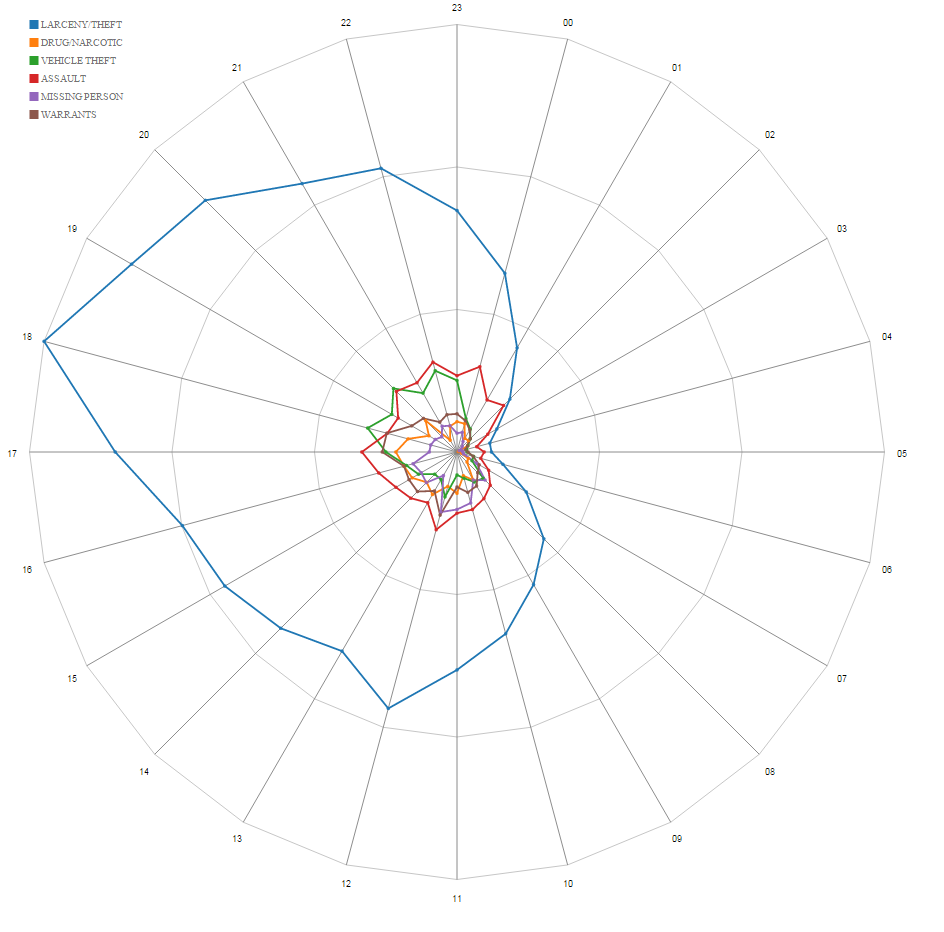
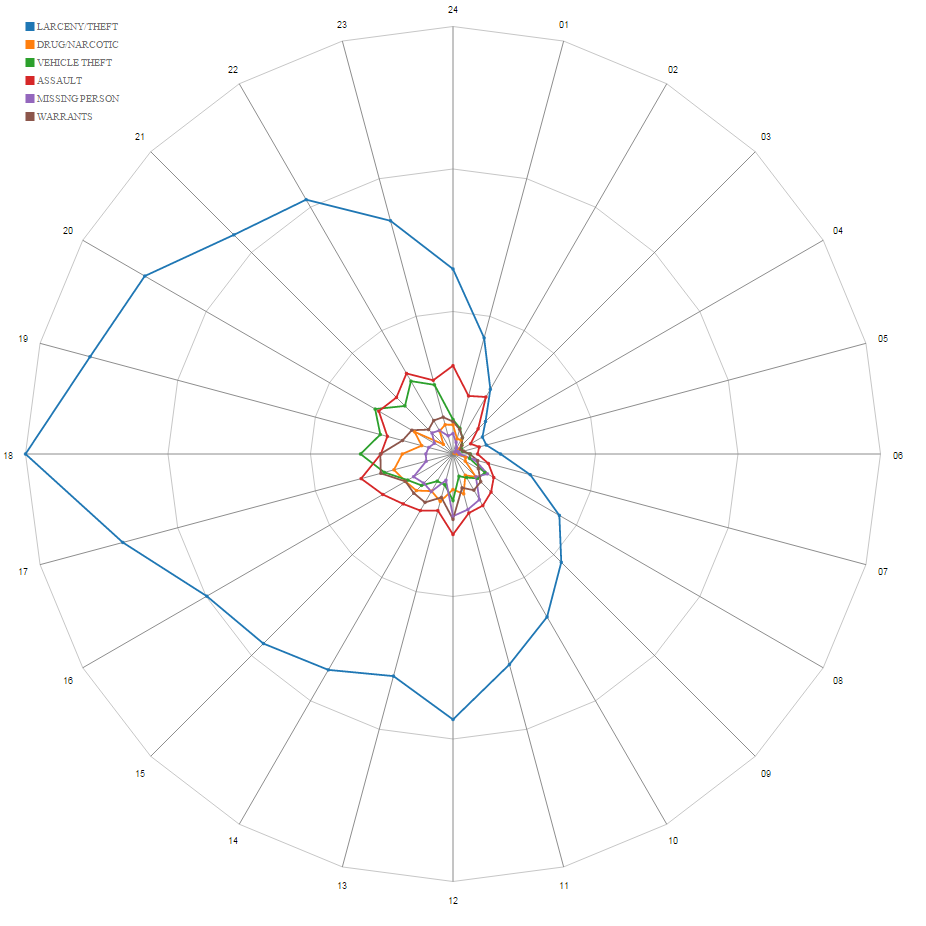
errors are fixed

diff --git a/ch4.html b/ch4.html
@@ -67,9 +67,9 @@
             hIdx = radarData.length;
             var axes = [];
             [
-              '00', '01', '02', '03', '04', '05', '06', '07', '08',
+              '01', '02', '03', '04', '05', '06', '07', '08',
               '09', '10', '11', '12', '13', '14', '15', '16', '17',
-              '18', '19', '20', '21', '22', '23'
+              '18', '19', '20', '21', '22', '23', '24'
             ].reverse().forEach(function(h){
               axes.push({ axis: h, value: 0 });
             });
@@ -78,7 +78,8 @@
           }
 
           // var key1 = d.DayOfWeek;
-          var key1 = d.Hour;
+          var hour = d.Hour == '00' ? '24' : d.Hour;
+          var key1 = hour;
           var aIdx = getIdxByField(radarData[hIdx].axes, 'axis', key1);
           if (aIdx === -1) {
             aIdx = radarData.length;
